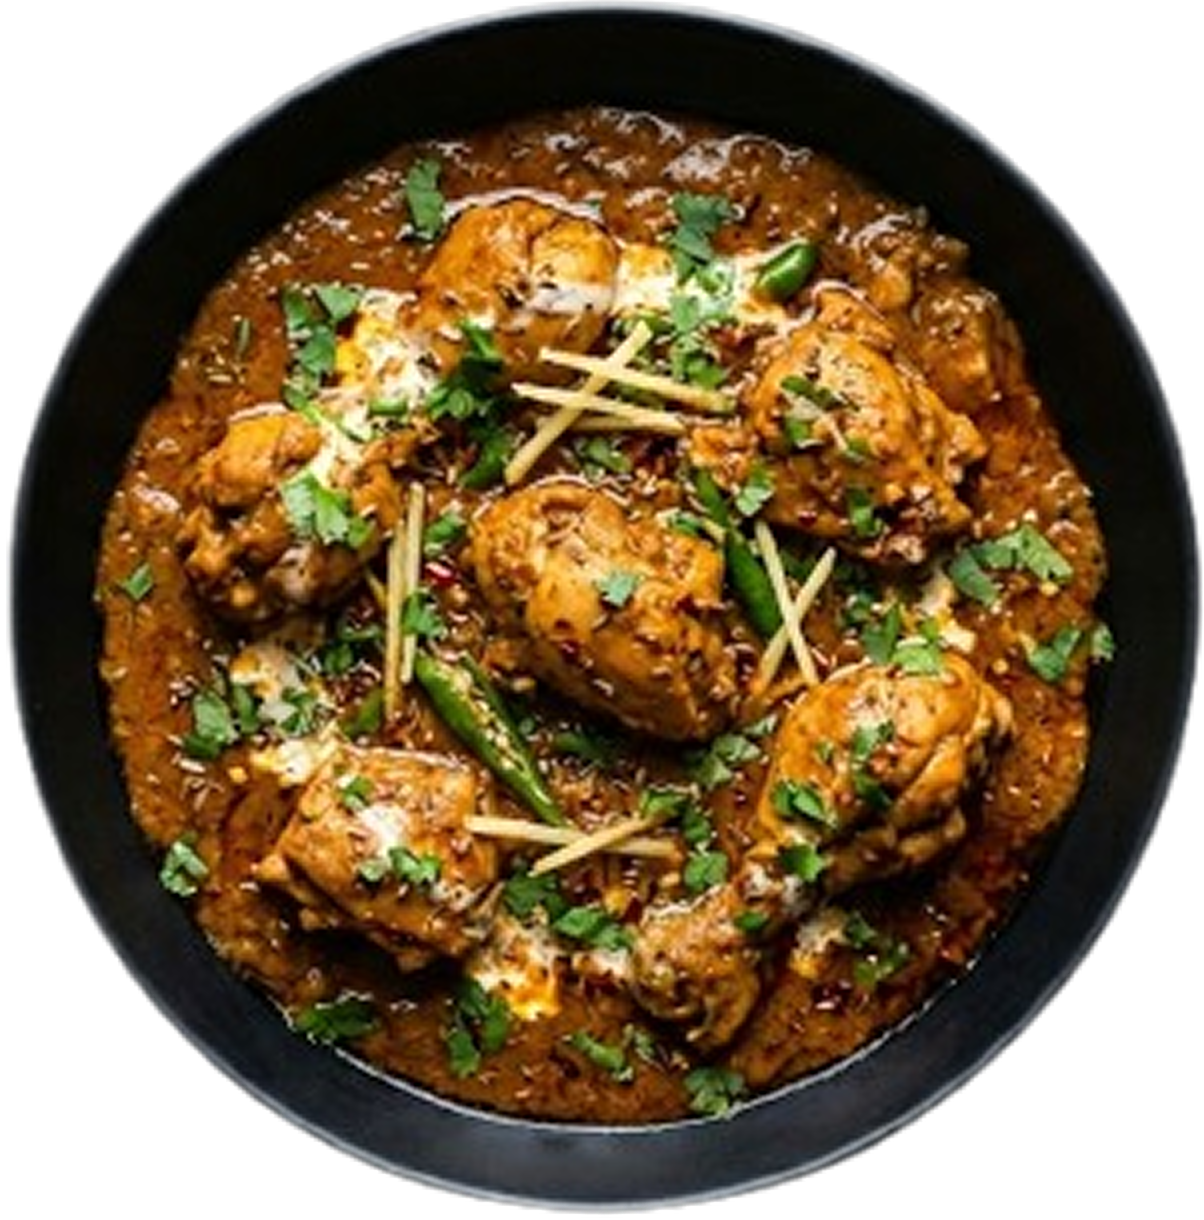
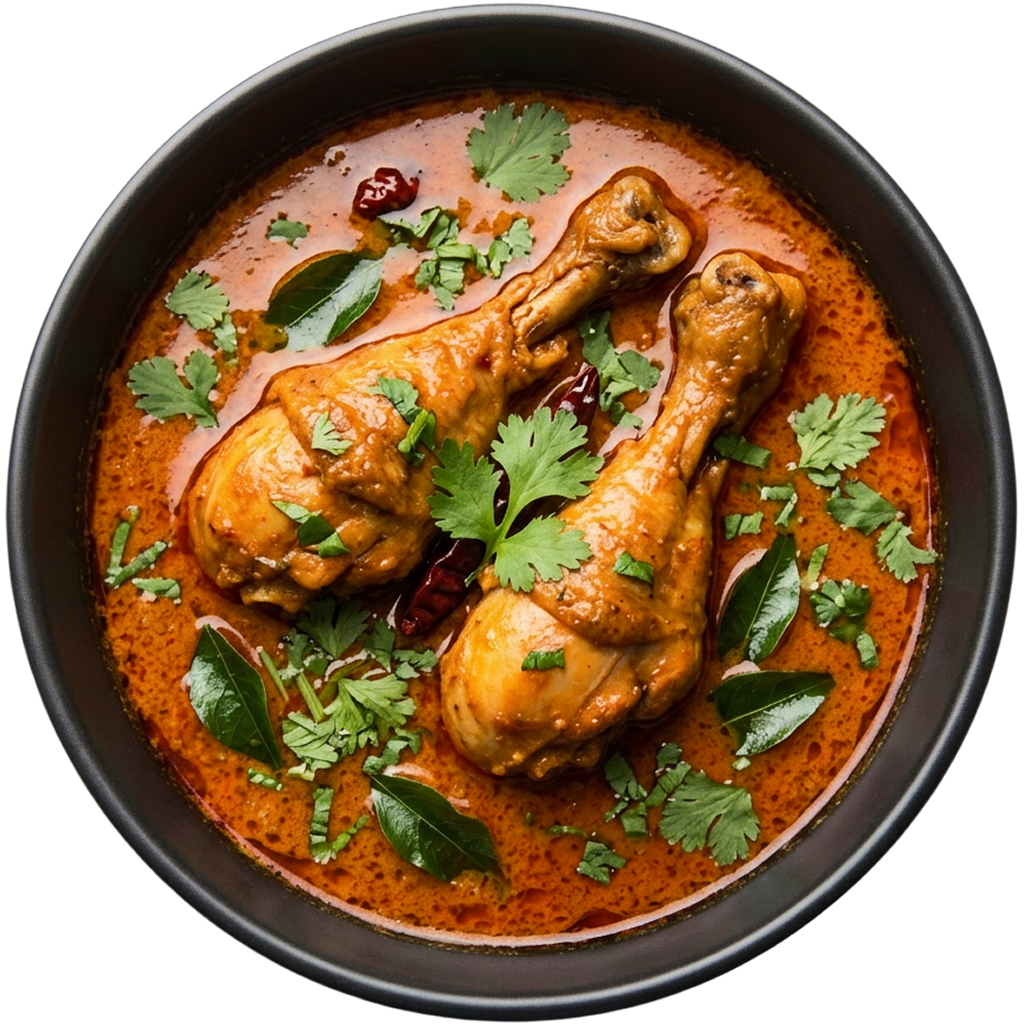
feat(website): replace placeholder curry images with real chicken and mutton curry images
Made-with: Cursor

diff --git a/src/components/ui/DesktopLanding.tsx b/src/components/ui/DesktopLanding.tsx
@@ -135,7 +135,6 @@ export function DesktopLanding() {
             backfaceVisibility: 'hidden'
           }}
         >
-          {/* Inner Motion Div for Infinite Rotation */}
           <motion.div
             animate={{ rotate: -360 }}
             transition={{ duration: 60, repeat: Infinity, ease: "linear" }}
@@ -151,8 +150,8 @@ export function DesktopLanding() {
             }}
           >
             <Image
-              src="/chicken_curry_generated.webp"
-              alt="Special Chicken Curry"
+              src="/chicken_curry.png"
+              alt="Authentic Chicken Curry"
               fill
               style={{ objectFit: 'cover' }}
             />
@@ -208,7 +207,6 @@ export function DesktopLanding() {
             backfaceVisibility: 'hidden'
           }}
         >
-          {/* Inner Motion Div for Infinite Rotation */}
           <motion.div
             animate={{ rotate: 360 }}
             transition={{ duration: 70, repeat: Infinity, ease: "linear" }}
@@ -224,8 +222,8 @@ export function DesktopLanding() {
             }}
           >
             <Image
-              src="/fish_curry_generated.webp"
-              alt="Homemade Fish Curry"
+              src="/mutton_curry.png"
+              alt="Authentic Mutton Curry"
               fill
               style={{ objectFit: 'cover' }}
             />